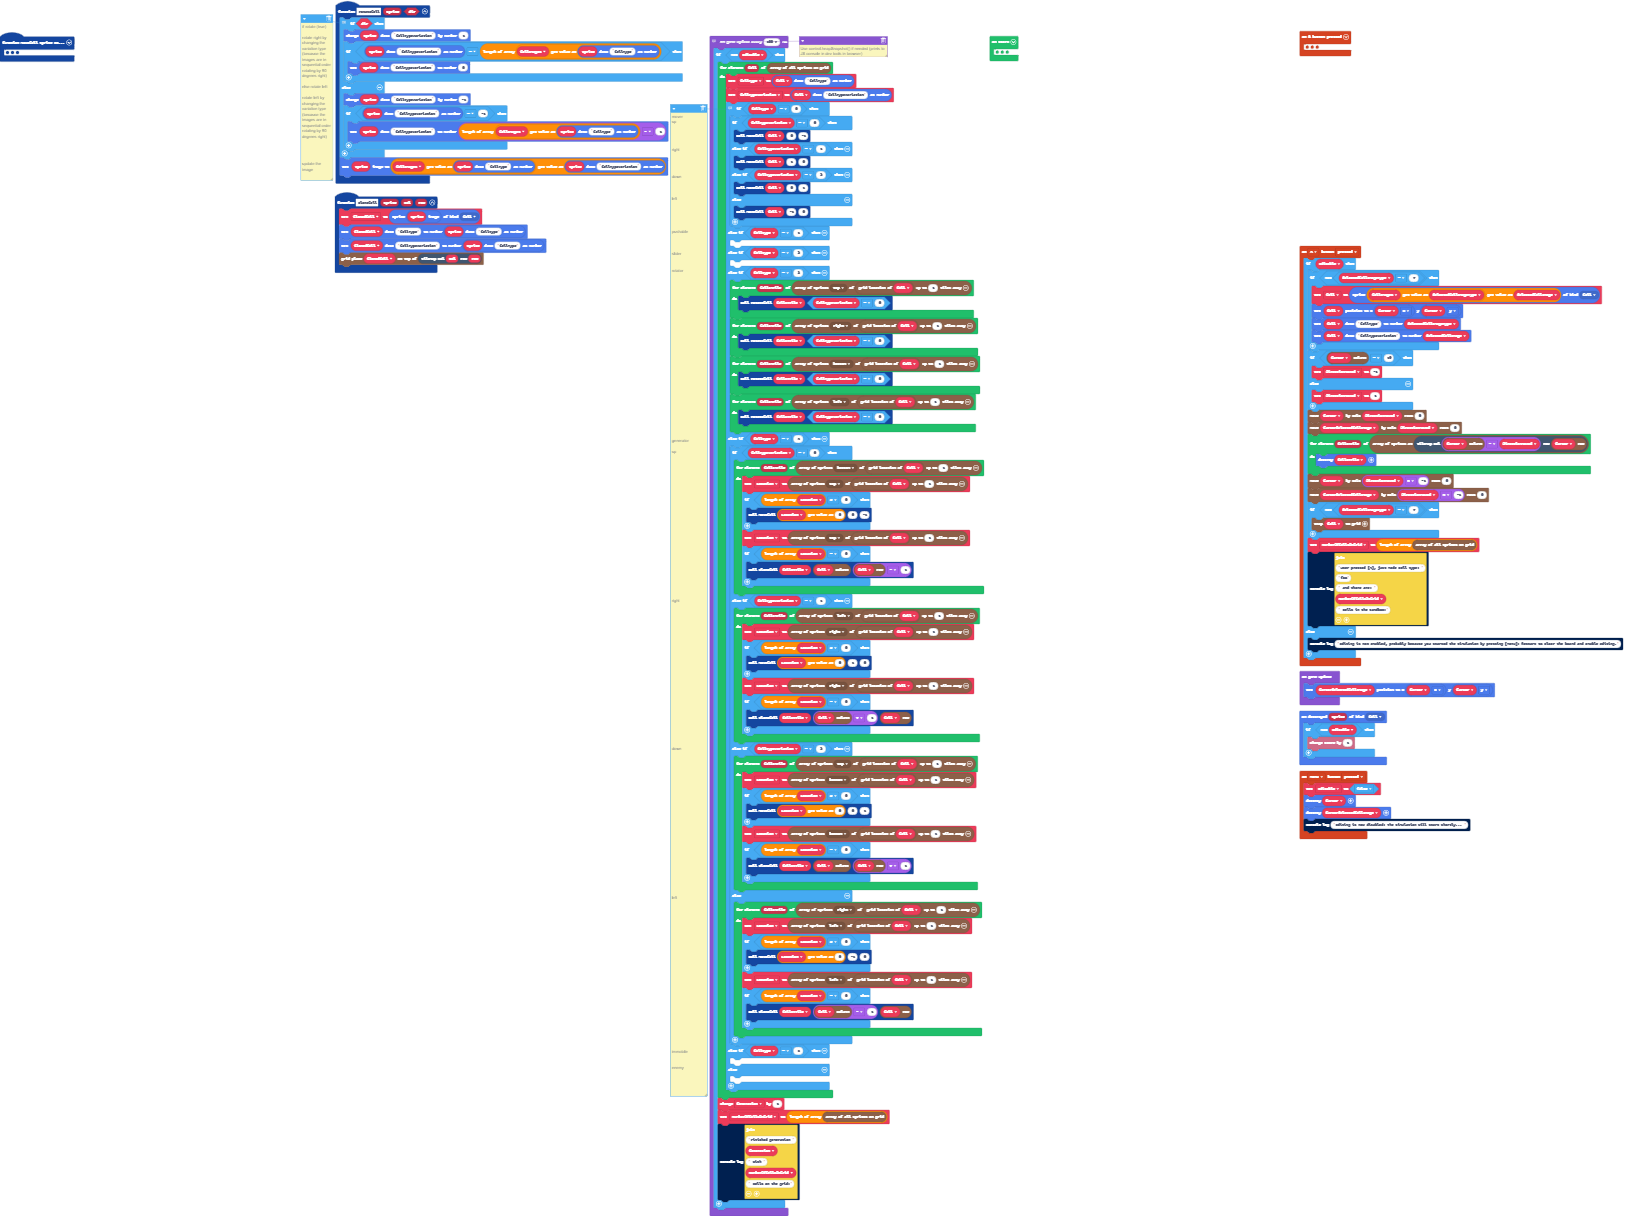
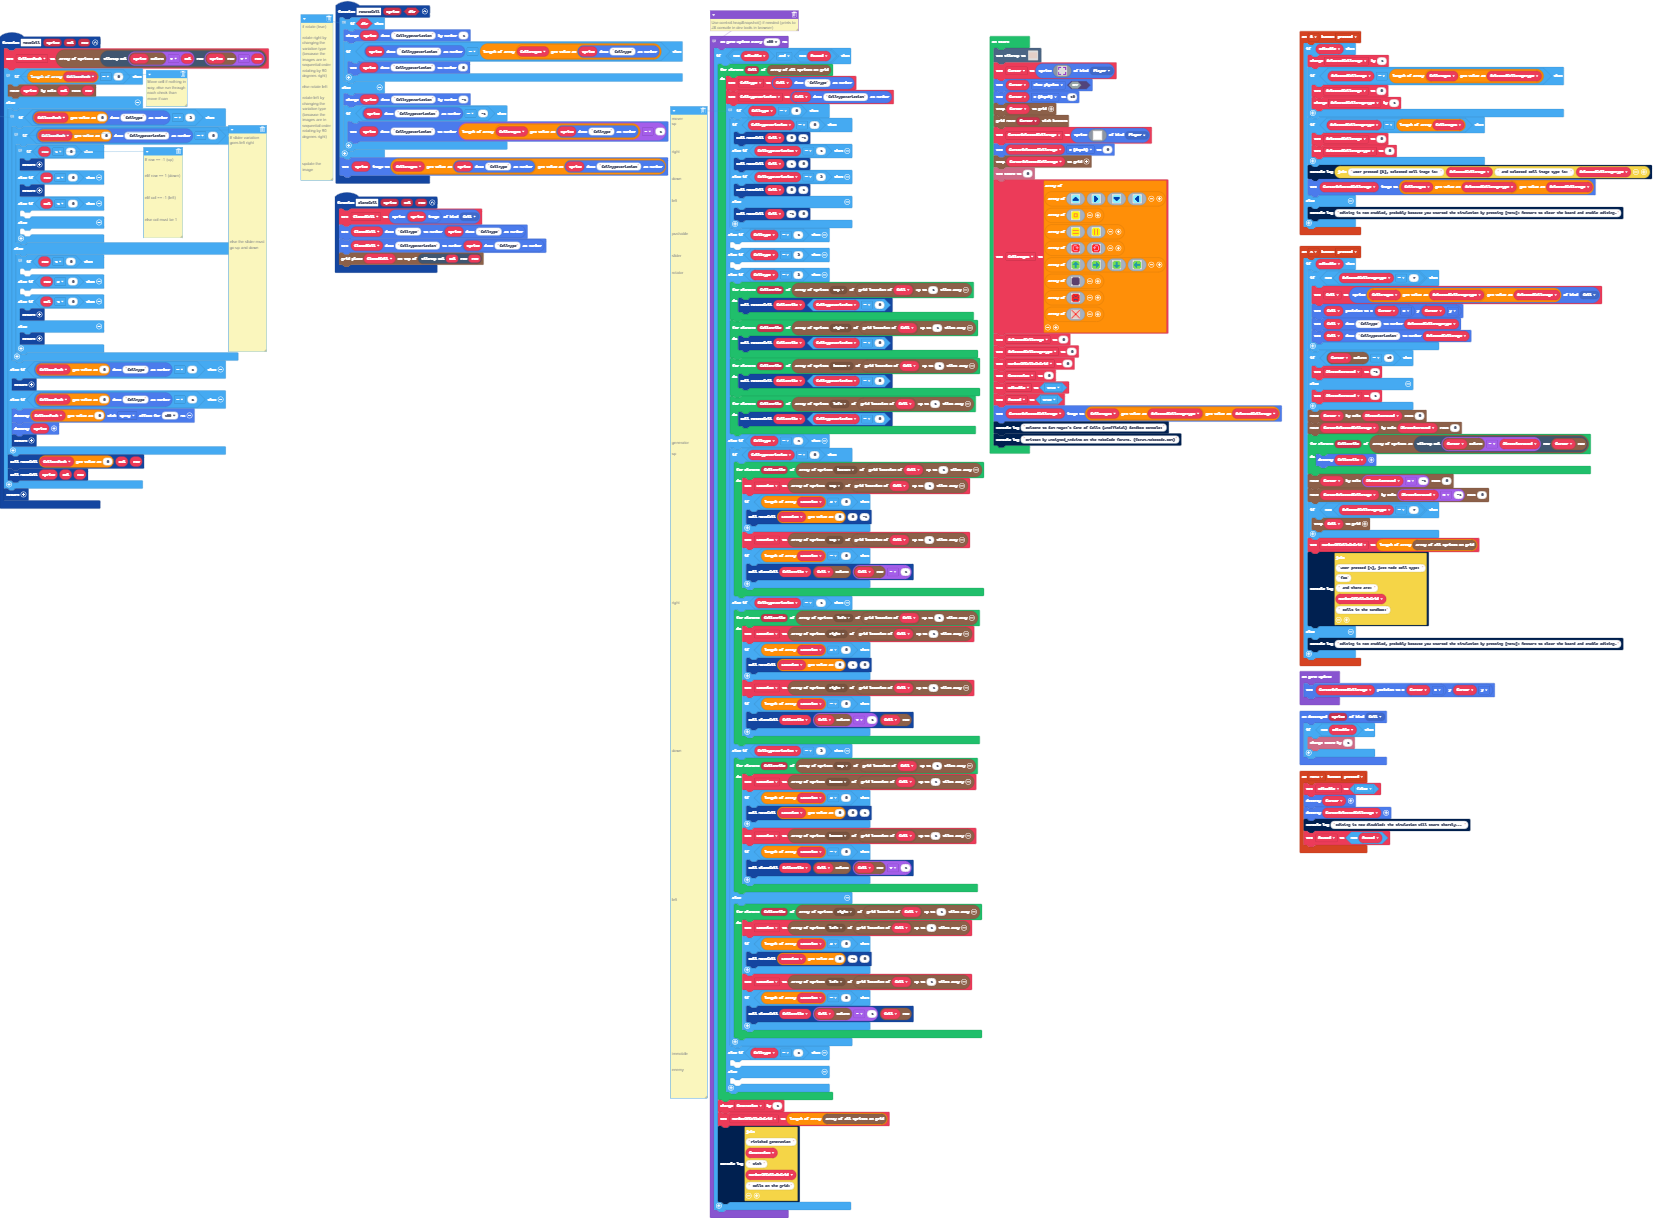
Added pause ability with the menu key if simulation is active

Changed region(s): [[0.0, 0.0, 0.9897, 1.0]]

diff --git a/main.ts b/main.ts
@@ -205,6 +205,7 @@ controller.menu.onEvent(ControllerButtonEvent.Pressed, function () {
     Cursor.destroy()
     CursorSelectedCellImage.destroy()
     console.log("Editing is now disabled! The simulation will start shortly... ")
+    Paused = !(Paused)
 })
 function rotateCell (sprite: Sprite, dir: boolean) {
     // if rotate (true)
@@ -239,6 +240,7 @@ let ClonedCell: Sprite = null
 let CellsInPath: Sprite[] = []
 let DirectionMoved = 0
 let Cell: Sprite = null
+let Paused = false
 let Editable = false
 let NumberOfCellsOnGrid = 0
 let SelectedCellImageType = 0
@@ -449,6 +451,7 @@ SelectedCellImageType = 0
 NumberOfCellsOnGrid = 0
 let Generation = 0
 Editable = true
+Paused = true
 CursorSelectedCellImage.setImage(CellImages[SelectedCellImageType][SelectedCellImage])
 console.log("Welcome to Sam Hogan's Game of Cells (Unofficial) Sandbox console!")
 console.log("Written by Unsigned_Arduino on the MakeCode forums. (forum.makecode.com)")
@@ -457,7 +460,7 @@ game.onUpdate(function () {
 })
 // Use control.heapSnapshot() if needed (prints to JS console in dev tools in browser)
 game.onUpdateInterval(500, function () {
-    if (!(Editable)) {
+    if (!(Editable) && !(Paused)) {
         for (let Cell of grid.allSprites()) {
             CellType = sprites.readDataNumber(Cell, "CellType")
             CellTypeVariation = sprites.readDataNumber(Cell, "CellTypeVariation")
